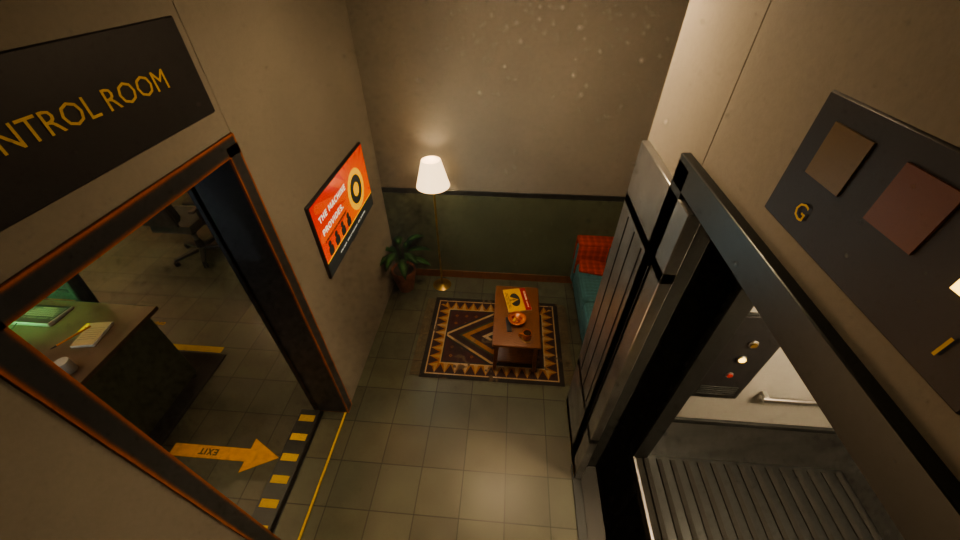
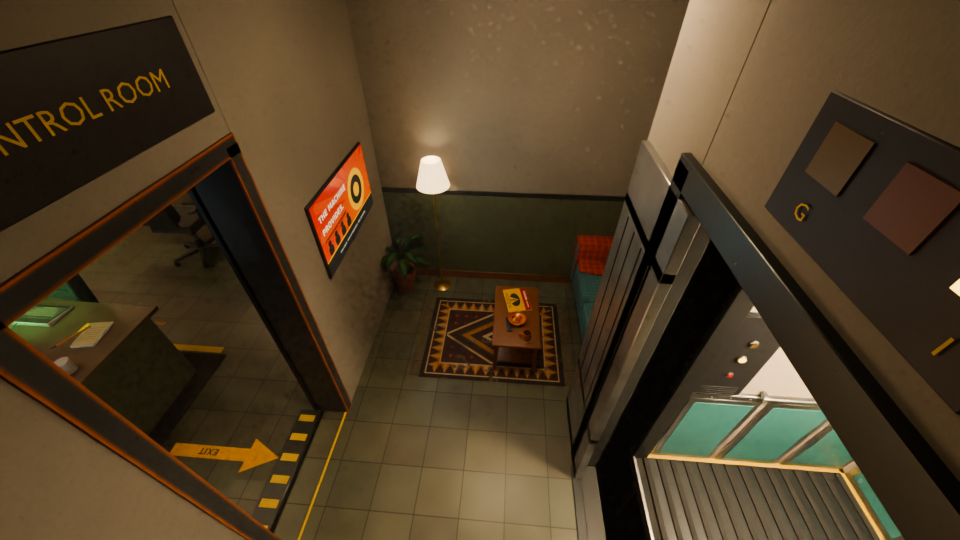
Lift car redesign: sharp teal-dado panels, big mirror, emergency phone, floor display, LED coves
- car walls cream with raised olive/teal dado panels, brushed chair rail with rivets, amber
  stripe, crown rail, glowing coves; car lamp 150 W, cabin light 16
- west wall mirror in a heavy brushed frame; emergency phone with coiled cord; certificate (frame
  no longer covers it), brass plate and framed photo on the south wall
- G | arrow | 1 floor display over the north door driven by car height
- views p15..p17, README, delivery/spec reports, shipped blend refreshed

Claude-Session: https://claude.ai/code/session_01MZn6W3mktoSNAd4EhQyGwJ

diff --git a/sections/reactor-room/production/overhaul-R1/scripts/cr_ante.py b/sections/reactor-room/production/overhaul-R1/scripts/cr_ante.py
@@ -66,7 +66,10 @@ def lamp_mats(c,ctl):
     M["LAMP_G"]=emit_mat("CR lift lamp G",(1.0,0.62,0.12),4.0); _drive(M["LAMP_G"],"4.0*max(0,1-z/0.6)",zv)
     M["LAMP_F1"]=emit_mat("CR lift lamp F1",(1.0,0.62,0.12),4.0); _drive(M["LAMP_F1"],"4.0*min(1,max(0,(z-4.8)/0.6))",zv)
     M["LAMP_MOVE"]=emit_mat("CR lift lamp moving",(1.0,0.30,0.05),3.0); _drive(M["LAMP_MOVE"],"3.0*(1 if z>0.15 and z<5.25 else 0)",zv)
-    M["CAB_LIGHT"]=emit_mat("CR lift cabin light",(1.0,0.74,0.46),9.0); _drive(M["CAB_LIGHT"],"9.0*(1-0.85*max(0,sin(T*47)*sin(T*11.3+1)-0.30)*1.6)*(1-0.7*bw)",[])
+    M["CAB_LIGHT"]=emit_mat("CR lift cabin light",(1.0,0.74,0.46),16.0); _drive(M["CAB_LIGHT"],"16.0*(1-0.85*max(0,sin(T*47)*sin(T*11.3+1)-0.30)*1.6)*(1-0.7*bw)",[])
+    M["DADO"]=pm("CR lift dado teal",(0.06,0.25,0.24),0.30,edge=(0.30,0.55,0.50),scale=2.0,bump=0.0,coat=0.4,var=(0.92,1.04))
+    M["LPHOTO"]=tex_mat("CR family photo lift",new_image("CR lift photo tex",crt.photo()),rough=0.45)
+    M["COVE"]=emit_mat("CR lift cove",(1.0,0.74,0.42),7.0,expr="7.0*(1-0.35*min(1,fk))*(1-0.5*bw)")
     M["CAM_LED"]=emit_mat("CR lift camera led",(1.0,0.05,0.03),4.0); _drive(M["CAM_LED"],"4.0*(1 if fmod(T,2.4)<0.18 else 0)",[])
     M["LAMP_SHADE"]=emit_mat("CR lamp shade glow",(1.0,0.70,0.40),2.4)
     M["COFFEE"]=pm("CR coffee",(0.03,0.016,0.008),0.12,bump=0.0,scale=2.0)
@@ -205,6 +208,42 @@ def props(c):
         base=(px+r_*ca,py+r_*sa,Z+0.26)
         A.tube((g,"PLANT"),[base,(px+(r_+0.03)*ca,py+(r_+0.03)*sa,Z+0.26+h*0.6),(px+(r_+0.06)*ca,py+(r_+0.06)*sa,Z+0.26+h)],0.0032,5)
         A.leaf((g,"PLANT"),(px+(r_+0.06)*ca,py+(r_+0.06)*sa,Z+0.26+h),(ca,sa),L,0.052,droop=0.55,n=5,t=0.0016)
+def car_dressing(K,x0,x1,y0,y1):
+    """car walls in three tones with sharp raised panels, brushed rails, an amber stripe, a big framed mirror, an emergency phone with a coiled cord, the inspection certificate and
+    capacity plate (south wall), a floor display (G | arrow | 1) over the north door and glowing LED coves.  All inner faces: west x -8.63, south y -7.08, north lintel y -5.75."""
+    g="lift_car"; xw=x0+0.07; ys=y0+0.07; yn=y1-0.10; xe=x1-0.10
+    # olive dado: raised panels with a graphite field, on both wall sides
+    for (ya,yb) in ((-7.04,-6.62),(-6.58,-6.16),(-6.12,-5.79)):
+        K.fb((g,"BRUSH"),'+x',xw,ya,yb,0.12,0.88,0.014,0.004); K.fb((g,"DADO"),'+x',xw+0.014,ya+0.035,yb-0.035,0.16,0.84,0.003,0.002)
+    for (xa,xb) in ((-8.60,-8.20),(-8.16,-7.76),(-7.72,-7.32)):
+        K.fb((g,"BRUSH"),'+y',ys,xa,xb,0.12,0.88,0.014,0.004); K.fb((g,"DADO"),'+y',ys+0.014,xa+0.035,xb-0.035,0.16,0.84,0.003,0.002)
+    K.fb((g,"BRUSH"),'+x',xw,ys,yn,0.90,0.945,0.024,0.004); K.fb((g,"BRUSH"),'+y',ys,xw,xe,0.90,0.945,0.024,0.004)                                  # chair rail
+    K.fb((g,"ORANGE"),'+x',xw,ys,yn,2.10,2.15,0.010,0.003); K.fb((g,"ORANGE"),'+y',ys,xw,xe,2.10,2.15,0.010,0.003)                                 # amber stripe
+    K.fb((g,"BRUSH"),'+x',xw,ys,yn,2.22,2.27,0.028,0.004); K.fb((g,"BRUSH"),'+y',ys,xw,xe,2.22,2.27,0.028,0.004)                                  # crown rail
+    K.fb((g,"COVE"),'+x',xw,ys,yn,2.285,2.325,0.012,0.002); K.fb((g,"COVE"),'+y',ys,xw,xe,2.285,2.325,0.012,0.002)                                 # LED coves
+    # big mirror on the west wall, above the handrail: heavy brushed frame, bevelled glass
+    my0,my1,mz0,mz1=-6.80,-5.95,1.08,2.04; fw=0.045
+    for (ya,yb,za,zb) in ((my0-fw,my1+fw,mz0-fw,mz0),(my0-fw,my1+fw,mz1,mz1+fw),(my0-fw,my0,mz0,mz1),(my1,my1+fw,mz0,mz1)): K.fb((g,"BRUSH"),'+x',xw,ya,yb,za,zb,0.024,0.004)
+    K.fb((g,"MIRROR"),'+x',xw,my0,my1,mz0,mz1,0.010,0.004)
+    # emergency phone box with handset and coiled cord, west wall south strip
+    K.fb((g,"RED"),'+x',xw,-7.03,-6.83,1.05,1.42,0.070,0.006); K.fb((g,"PAPER"),'+x',xw+0.070,-7.00,-6.86,1.34,1.39,0.003,0.001)
+    K.fb((g,"BLACK"),'+x',xw+0.070,-6.975,-6.915,1.12,1.31,0.024,0.008); K.fb((g,"BRUSH"),'+x',xw+0.070,-6.99,-6.90,1.08,1.12,0.012,0.003)
+    pts=[(xw+0.105+0.011*math.cos(t),-6.855+0.011*math.sin(t),1.10-0.0045*t/(2*math.pi)*3.2) for t in [k*0.55 for k in range(32)]]
+    K.tube((g,"BLACK"),pts,0.0024,4)
+    # inspection certificate (expired) in a thin black frame and the brass capacity plate, south wall west end
+    cx,cz,hw,hh=-8.38,1.62,0.085,0.11; yy=ys+0.0005
+    K.plane((g,"LCERT"),(cx+hw,yy,cz-hh),(cx-hw,yy,cz-hh),(cx-hw,yy,cz+hh),(cx+hw,yy,cz+hh))
+    for (xa,xb,za,zb) in ((cx-hw-0.012,cx+hw+0.012,cz-hh-0.012,cz-hh),(cx-hw-0.012,cx+hw+0.012,cz+hh,cz+hh+0.012),(cx-hw-0.012,cx-hw,cz-hh,cz+hh),(cx+hw,cx+hw+0.012,cz-hh,cz+hh)): K.fb((g,"BLACK"),'+y',ys,xa,xb,za,zb,0.006,0.002)
+    K.fb((g,"BRASS"),'+y',ys,cx-0.11,cx+0.11,1.20,1.31,0.004,0.0015)
+    px,pz,pw,ph=-8.08,1.50,0.095,0.125                                                                  # framed staff photo between the certificate and the dial
+    K.plane((g,"LPHOTO"),(px+pw,ys+0.0005,pz-ph),(px-pw,ys+0.0005,pz-ph),(px-pw,ys+0.0005,pz+ph),(px+pw,ys+0.0005,pz+ph))
+    for (xa,xb,za,zb) in ((px-pw-0.014,px+pw+0.014,pz-ph-0.014,pz-ph),(px-pw-0.014,px+pw+0.014,pz+ph,pz+ph+0.014),(px-pw-0.014,px-pw,pz-ph,pz+ph),(px+pw,px+pw+0.014,pz-ph,pz+ph)): K.fb((g,"BRASS"),'+y',ys,xa,xb,za,zb,0.008,0.002)
+    for k in range(12): K.cyly((g,"BRUSH"),xw+0.06+k*0.105,ys+0.024,ys+0.029,0.9225,0.0055,6); K.cylx((g,"BRUSH"),xw+0.024,xw+0.029,ys+0.06+k*0.105,0.9225,0.0055,6) if k<12 else None   # rivets on the chair rail
+    # floor display housing over the north door (letters + arrow are driven by the car height)
+    K.fb((g,"BLACK"),'-y',yn,-8.26,-7.64,2.05,2.255,0.026,0.006)
+    K.hull((g,"LAMP_MOVE"),[(-7.95-0.035,yn-0.027,2.09),(-7.95+0.035,yn-0.027,2.09),(-7.95,yn-0.027,2.215),(-7.95-0.035,yn-0.030,2.09),(-7.95+0.035,yn-0.030,2.09),(-7.95,yn-0.030,2.215)],0.0)
+    # rubber floor: yellow edge strips and a stencilled G | 1 in the corner
+    K.bx((g,"YELLOW"),xw,xw+0.03,ys,yn,0.096,0.100,0.0); K.bx((g,"YELLOW"),xw,xe,ys,ys+0.03,0.096,0.100,0.0)
 def car_interior(c,ctl,car,zv,_mover):
     """everything inside the car that moves with it: control panel with G / F1 lamp buttons, analogue floor dial, security camera, certificate, capacity plate, car lamp"""
     M=c.M; coll=c.coll
@@ -226,15 +265,9 @@ def car_interior(c,ctl,car,zv,_mover):
         K.cyl((g,"STEEL_L"),dx,dy,2.378,2.40,0.070,22,0.003); K.cyl((g,"BLACK"),dx,dy,2.350,2.378,0.058,22,0.003); K.cyl((g,"BLACK"),dx,dy,2.322,2.350,0.045,20,0.003); K.cyl((g,"BLACK"),dx,dy,2.302,2.322,0.028,16,0.002)
         K.cyl((g,"BLACK"),dx+0.012,dy-0.02,2.300,2.306,0.012,10); K.cyl((g,"CAM_LED"),dx+0.082,dy,2.385,2.388,0.0065,8)
         K.tube((g,"CABLE_B"),[(dx-0.07,dy,2.399),(dx-0.13,dy,2.399),(dx-0.13,dy+0.1,2.399)],0.003,6)
-        # expired inspection certificate + capacity plate on the west wall
-        x=-8.629; hw,hh=0.085,0.11; yc,zc=-6.55,1.62
-        K.plane((g,"LCERT"),(x,yc-hw,zc-hh),(x,yc+hw,zc-hh),(x,yc+hw,zc+hh),(x,yc-hw,zc+hh))
-        K.fb((g,"BLACK"),'+x',-8.63,yc-hw-0.01,yc+hw+0.01,zc-hh-0.01,zc+hh+0.01,0.003,0.0005)
-        K.fb((g,"BRASS"),'+x',-8.63,-6.64,-6.46,1.28,1.36,0.004,0.001)
-        K.fb((g,"BRUSH"),'+x',-8.63,-6.36,-5.80,1.08,2.12,0.008,0.003); K.fb((g,"MIRROR"),'+x',-8.622,-6.345,-5.815,1.095,2.105,0.003,0.0)   # mirror in a brushed frame, north half of the west wall
     objs=_mover(c,"lift_car2",fn)
     for o in objs: o.parent=car
-    for body,x,y,z,size,face,key in (("G",-7.46,-7.0575,1.40,0.036,'+y',"YELLOW"),("F1",-7.46,-7.0575,1.28,0.036,'+y',"YELLOW"),("MAX 8 PERSONS\n600 KG",-8.6265,-6.55,1.32,0.017,'+x',"BLACK")):
+    for body,x,y,z,size,face,key in (("G",-7.46,-7.0575,1.40,0.036,'+y',"YELLOW"),("F1",-7.46,-7.0575,1.28,0.036,'+y',"YELLOW"),("MAX 8 PERSONS\n600 KG",-8.38,-7.0745,1.25,0.0145,'+y',"BLACK"),("G",-8.12,-5.7765,2.155,0.085,'-y',"LAMP_G"),("1",-7.80,-5.7765,2.155,0.085,'-y',"LAMP_F1")):
         t=crk.text(coll,body,x,y,z,face,size,M[key],'CENTER',"CR lift label"); t.parent=car
     for body,x,z in (("G",-7.65,1.835),("1",-7.855,1.835)):
         t=crk.text(coll,body,x,-7.0575,z,'+y',0.026,M["YELLOW"],'CENTER',"CR lift dial label"); t.parent=car
@@ -244,5 +277,5 @@ def car_interior(c,ctl,car,zv,_mover):
     ob=_mover(c,"lift_needle",needle)
     for o in ob:
         o.parent=car; o.location=(-7.75,-7.052,1.92); drv(o,'rotation_euler',1,"1.0*(1-2*z/5.4)",var_s=False,extra=zv)
-    lo=crk.light(coll,"CR lift car lamp",(-7.95,-6.40,2.25),(1.0,0.72,0.45),60,'AREA',(0,0,0),size=(0.55,0.28),expr="60*(1-0.85*max(0,sin(T*47)*sin(T*11.3+1)-0.30)*1.6)*(1-0.7*bw)",var_s=False)
+    lo=crk.light(coll,"CR lift car lamp",(-7.95,-6.40,2.25),(1.0,0.72,0.45),150,'AREA',(0,0,0),size=(0.55,0.28),expr="150*(1-0.85*max(0,sin(T*47)*sin(T*11.3+1)-0.30)*1.6)*(1-0.7*bw)",var_s=False)
     lo.parent=car

diff --git a/sections/reactor-room/production/overhaul-R1/scripts/cr_lift.py b/sections/reactor-room/production/overhaul-R1/scripts/cr_lift.py
@@ -46,7 +46,7 @@ def build(c):
     A,M=c.A,c.M; coll=c.coll; R=c.R
     remove_old()
     M["JUG"]=pm("CR jug blue",(0.05,0.24,0.56),0.18,scale=2.0,bump=0.0,var=(0.92,1.05),coat=0.5)
-    M["CARWALL"]=pm("CR lift wall panel",(0.30,0.31,0.29),0.40,edge=(0.55,0.55,0.50),scale=2.5,bump=0.0,var=(0.90,1.04),coat=0.1)      # satin painted car walls: a closed metal box with only specular reads black
+    M["CARWALL"]=pm("CR lift wall panel",(0.50,0.46,0.37),0.40,edge=(0.55,0.55,0.50),scale=2.5,bump=0.0,var=(0.90,1.04),coat=0.1)      # satin painted car walls: a closed metal box with only specular reads black
     M["PLANT"]=pm("CR plant leaf",(0.045,0.16,0.04),0.55,scale=4.0,bump=0.05,var=(0.85,1.10))
     M["TERRA"]=pm("CR terracotta",(0.30,0.12,0.065),0.78,scale=3.0,bump=0.10,var=(0.85,1.08))
     # ---------------------------------------------------------------- control empty with the time-driven schedule
@@ -140,7 +140,6 @@ def build(c):
         g="lift_car"; x0,x1,y0,y1=-8.70,-7.20,-7.15,-5.65
         K.bx((g,"RUBBER"),x0,x1,y0,y1,0.0,0.08,0.006)
         K.bx((g,"CARWALL"),x0,x0+0.07,y0,y1,0.08,2.40,0.004); K.bx((g,"CARWALL"),x0,x1,y0,y0+0.07,0.08,2.40,0.004)                 # west + south walls
-        K.bx((g,"STEEL"),x0+0.07,x1-0.07,y0+0.07,y0+0.09,0.60,0.64,0.002); K.bx((g,"STEEL"),x0+0.07,x0+0.09,y0+0.07,y1-0.07,0.60,0.64,0.002)   # wainscot rails
         for (xa,ya) in ((x0,y1-0.10),(x1-0.10,y1-0.10),(x1-0.10,y0)): K.bx((g,"TRIM"),xa,xa+0.10,ya,ya+0.10,0.08,2.40,0.004)        # corner posts (north + east sides are the doorways)
         K.bx((g,"TRIM"),x0,x1,y1-0.10,y1,2.28,2.40,0.004); K.bx((g,"TRIM"),x1-0.10,x1,y0,y1,2.28,2.40,0.004)                          # door lintels
         K.bx((g,"CARWALL"),x0,x1,y0,y1,2.40,2.48,0.004)                                                                              # roof
@@ -152,16 +151,14 @@ def build(c):
         K.prism((g,"BRUSH"),(x0+0.25,y0+0.07+0.045,0.97),(-7.66,y0+0.07+0.045,0.97),0.0125,0.0125,14,0.0,True,0.0)
         for xx in (x0+0.27,-7.68): K.bx((g,"BRUSH"),xx-0.012,xx+0.012,y0+0.07,y0+0.07+0.045,0.955,0.985,0.003)
         # brushed kick plates, ribbed rubber floor with a steel border, threshold nosings, ceiling frame with vents / speaker
-        K.bx((g,"BRUSH"),x0+0.07,x0+0.077,y0+0.07,y1-0.10,0.09,0.58,0.002); K.bx((g,"BRUSH"),x0+0.07,x1-0.10,y0+0.07,y0+0.077,0.09,0.58,0.002)
         K.bx((g,"STEEL"),x0+0.07,x1-0.07,y0+0.07,y1-0.07,0.078,0.086,0.002)
         for k in range(15): K.bx((g,"RUBBER"),x0+0.10+k*0.0925,x0+0.10+k*0.0925+0.035,y0+0.10,y1-0.10,0.086,0.096,0.0015)
         K.bx((g,"BRUSH"),x0,x1,y1-0.02,y1,0.075,0.09,0.002); K.bx((g,"BRUSH"),x1-0.02,x1,y0,y1,0.075,0.09,0.002)
         for k in range(5): K.bx((g,"BLACK"),-8.50+k*0.05,-8.50+k*0.05+0.025,-5.95,-5.78,2.395,2.402,0.0005)                                 # ceiling vent slots
         K.lathe((g,"BRUSH"),-7.50,-6.12,[(0.052,2.40),(0.052,2.386),(0.046,2.384),(0.0,2.384)],seg=18)
         for k in range(3): K.cyl((g,"BLACK"),-7.50+0.022*math.cos(k*2.094),-6.12+0.022*math.sin(k*2.094),2.384,2.387,0.006,6)                    # speaker grille holes
-        K.bx((g,"BRUSH"),-8.29,-7.61,-6.79,-6.41,2.396,2.403,0.002)                                                                                # cabin light frame
         K.bx((g,"YELLOW"),x0+0.07,x1-0.10,y1-0.10,y1,0.08,0.09,0.0)                                                                   # sill marking
-        K.bx((g,"STEEL"),x0+0.4,x1-0.4,y0+0.08,y0+0.095,1.5,1.62,0.002)                                                               # rear panel plate
+        cr_ante.car_dressing(K,x0,x1,y0,y1)
     cobjs=_mover(c,"lift_car",mkcar)
     for o in cobjs: o.parent=car
     cr_ante.car_interior(c,ctl,car,zv,_mover)

diff --git a/sections/reactor-room/production/overhaul-R1/scripts/cr_lift_views.py b/sections/reactor-room/production/overhaul-R1/scripts/cr_lift_views.py
@@ -16,12 +16,15 @@ V={"p1_anteroom_from_lift_door":((-6.72,-6.40,6.95),(-5.6,-8.2,6.1),15,400),
    "p6_water_cooler_closeup":((-6.3,-7.2,6.8),(-5.45,-5.9,6.25),30,400),
    "p7_plant_and_lamp_corner":((-6.0,-7.6,6.7),(-5.3,-8.75,6.3),26,400),
    "p8_car_panel_and_dial_ground":((-8.25,-6.0,1.55),(-7.6,-7.08,1.35),24,1),
-   "p9_car_camera_and_certificate":((-7.45,-5.95,1.55),(-8.5,-6.9,2.0),22,1),
+   "p9_car_camera_and_certificate":((-7.5,-5.95,1.6),(-8.38,-7.08,1.55),24,1),
    "p10_car_mid_ride_dial_needle":((-8.25,-6.0,4.25),(-7.6,-7.08,4.05),24,241),
    "p11_anteroom_floor_indicator":((-5.15,-6.4,7.0),(-6.83,-6.4,7.9),30,400),
    "p12_hall_ground_door_indicator":((-7.2,-2.4,1.9),(-7.2,-5.25,2.2),24,1),
    "p13_couch_and_print":((-5.5,-7.0,6.6),(-7.3,-8.3,6.0),22,400),
-   "p14_car_mirror_and_rail":((-7.55,-6.95,1.55),(-8.62,-6.1,1.6),24,1)}
+   "p14_car_mirror_and_rail":((-7.55,-6.95,1.55),(-8.62,-6.4,1.6),24,1),
+   "p15_car_from_door_corner":((-7.30,-5.72,1.55),(-8.5,-7.0,1.2),15,1),
+   "p16_car_ceiling_and_coves":((-7.55,-6.80,1.0),(-8.2,-6.1,2.35),18,1),
+   "p17_car_door_to_panel":((-7.95,-5.70,1.6),(-7.95,-7.1,1.5),17,1)}
 ONLY=A[A.index('--only')+1].split(',') if '--only' in A else None
 for n,(l,t,ln,fr) in V.items():
     if ONLY and n not in ONLY: continue

diff --git a/sections/reactor-room/production/overhaul-R1/scripts/cr_families.py b/sections/reactor-room/production/overhaul-R1/scripts/cr_families.py
@@ -14,7 +14,7 @@ A=sys.argv[sys.argv.index("--")+1:]; SRC,DST=A[0],A[1]
 bpy.ops.wm.open_mainfile(filepath=SRC)
 C=bpy.data.collections["31 CR CONTROL ROOM REDO"]
 FAM=[  # (family, noise scale for the low-frequency variation, regexes of the old materials)
- ("S01 painted metal",2.5,r"hazard|signal red|locker|lamp shade|fridge|aircon|trim charcoal|desk edge|mug|terracotta|ceramic|lift wall"),
+ ("S01 painted metal",2.5,r"hazard|signal red|locker|lamp shade|fridge|aircon|trim charcoal|desk edge|mug|terracotta|ceramic|lift wall|lift dado"),
  ("S02 bare metal",3.0,r"galvanised|graphite|brass|ceiling grid|brushed"),
  ("S03 plaster and tile",2.0,r"wall |ceiling tile"),
  ("S05 plastic and rubber",2.5,r"black plastic|grey plastic|platinum|keycap|rubber|jug|pill"),

diff --git a/sections/reactor-room/production/overhaul-R1/README.md b/sections/reactor-room/production/overhaul-R1/README.md
@@ -241,9 +241,9 @@ The hall-side window glass is now fully clear (`CR window glass clear`: alpha 0.
 - **Lift:** solid enclosed shaft, no glass onto the reactor hall. Car doors: **north** at ground (the only opening onto the hall), **east** at the control-room level (+5.4 m). 24 s loop in scene seconds (ground 0-5 s, up 5-11 s, upper 11-17 s, down 17-23 s); car, counterweight, four ropes and four landing leaves are driven from `CR_LIFT`, frame-rate independent (`fps_independence_check.py` Passed).
 - **Anteroom:** 2.0 m wide x 3.25 m deep (interior x -6.83..-4.83, y -8.95..-5.70) plus a **south-west alcove** (x -7.70..-6.83, y -8.95..-7.52, tucked south of the shaft) that adds 0.87 m of width at the couch wall; floor +5.4 m, ceiling 8.5 m, on a steel frame with solid skirt panels. Its far door is the control room's west door. Skirting, coving, a framed print (poster atlas) and a lane of 2 m between the lift door and the control door stay clear.
 - **Anteroom dressing (AAA pass, stylised clean):** teal woven-fabric couch in the alcove, back to the west wall, facing a slim **wall-mounted TV on the control room's west wall** (broadcast image, flickers with the shared tube signal, cool glow light); walnut coffee table (generated grain texture) with magazine, remote, coffee on a coaster and a bowl of sweets; slim brass floor lamp; potted plant with 12 curved leaves; water cooler with a rounded body, tap bay, drip grille, cup dispenser and a ribbed 19 l jug ("FAMILY CO. SPRING WATER"); dark red worn Persian rug between couch and TV. The bedside table was removed (no space in the alcove). Furniture uses lathe-revolved profiles, soft bevelled cushions and tapered legs instead of stacked cylinders and boxes (`Kit.lathe`, `Kit.pillow`, `Kit.leaf` in `crk.py`).
-- **In the lift:** G and F1 buttons whose lamps light for the **active floor**, the same lamps (G | moving | F1) as floor indicators over the lift door in the anteroom and beside the ground door in the hall, a cabin light and car lamp that **flicker** (seconds-based, with the shared brownout), a dome **security camera** with a blinking red LED, an expired inspection certificate and a capacity plate, and an **analogue floor-position dial** whose needle swings with the car (G on the east side, F1 on the west side). Car detail: brushed kick plates, round handrails on brackets, ribbed rubber floor with steel border, mirror, ceiling vents and speaker grille, grooved landing-door leaves, round call buttons.
-- **Numbers (after the AAA pass, SW alcove and TV):** control-room mesh objects 192, triangles about 95.0k (lift + anteroom 70 objects, about 20k triangles of the ~35k budget), materials 44 (cap 16 was already exceeded; new generated wood grain, three fabric weaves, TV screen and mirror stay as own materials), glTF round trip 94,988 triangles, 194 objects, bounds difference under 0.001 mm. `cr_verify.py`, `verify_piping.py`, `clearance.py`, `fps_independence_check.py` Passed (90 time-driven drivers frame-rate independent). Mesh-overlap check against the hall: the base overlaps hall steel and the control-room cladding as before, nothing from the hall intrudes into the alcove or the car. Found on the way: the control room west cladding slab (x -5.0..-4.8) is the anteroom east wall, so the anteroom is effectively 1.83 m wide at that wall; the east dressing and TV are mounted on it. Not engine-measured.
+- **In the lift:** G and F1 buttons whose lamps light for the **active floor**, the same lamps (G | moving | F1) as floor indicators over the lift door in the anteroom and beside the ground door in the hall, a cabin light and car lamp that **flicker** (seconds-based, with the shared brownout), a dome **security camera** with a blinking red LED, an expired inspection certificate and a capacity plate, and an **analogue floor-position dial** whose needle swings with the car (G on the east side, F1 on the west side). **Car redesign (second AAA pass):** cream painted walls with an olive/teal raised-panel dado, brushed chair rail with rivets, amber stripe, crown rail and glowing LED coves, a big framed mirror on the west wall, red emergency phone with handset and coiled cord, certificate, brass capacity plate and a framed staff photo on the south wall, a G | arrow | 1 floor display over the north door that follows the car height, ribbed rubber floor with yellow edge strips, satin car walls, round handrails; car lamp 150 W and brighter cabin light.
+- **Numbers (after the car redesign):** control-room triangles about 97.5k, 225 objects, glTF round trip 97,547 triangles, 200 objects, 45 materials (cap 16 already exceeded); lift + anteroom about 23k triangles of the ~35k budget. `cr_verify.py` (incl. purple audit), `verify_piping.py`, `clearance.py` and `fps_independence_check.py` Passed. Not engine-measured. The control room's west cladding slab (x -5.0..-4.8) is the anteroom's real east wall, so the room is effectively 1.83 m wide there; the east dressing and TV are mounted on it.
 - **Lights:** the lift car lamp is the 7th dynamic light (no shadow); the anteroom ceiling lamp (34 W), floor lamp and TV glow are baked/static (15 baked in total).
 - **Fixed on the way:** the decal-atlas join had adopted the lift car as parent (a car-mounted certificate was the first decal object), which would have dragged every poster with the car; `cr_atlas_decals.py` now only joins unparented decals.
 - **Not done:** no collision proxies for the lift or anteroom; the car has no door leaves of its own (the landing leaves open and close); linear ride (no ease in/out); the lightmaps and the walk-through video predate all of this and are stale.
-- **Review renders:** `lift_p1..p14_*.png` (p5 is the TV wall, p13 the couch and print, p14 the car mirror and rail).
+- **Review renders:** `lift_p1..p17_*.png` (p5 TV wall, p13 couch and print, p14 mirror, p15 car from the door corner, p16 car ceiling and coves, p17 car door to panel).

diff --git a/sections/reactor-room/production/overhaul-R1/control_room_runtime_behaviour.md b/sections/reactor-room/production/overhaul-R1/control_room_runtime_behaviour.md
@@ -10,7 +10,7 @@ Generated by `cr_runtime_spec.py` from the authoring blend. Spec only: not an en
 | CR beacon +x | `energy[0]` | `40*max(0.15,(0.5-s)*2)*(0.35+0.65*max(0,sin((T*30)*0.45)))` |
 | CR beacon +y | `energy[0]` | `40*max(0.15,(0.5-s)*2)*(0.35+0.65*max(0,sin((T*30)*0.45)))` |
 | CR lift car | `location[2]` | `z` |
-| CR lift car lamp | `energy[0]` | `60*(1-0.85*max(0,sin(T*47)*sin(T*11.3+1)-0.30)*1.6)*(1-0.7*bw)` |
+| CR lift car lamp | `energy[0]` | `150*(1-0.85*max(0,sin(T*47)*sin(T*11.3+1)-0.30)*1.6)*(1-0.7*bw)` |
 | CR lift cw | `location[2]` | `-z` |
 | CR lift rope car -7.85 | `scale[2]` | `7.12-z` |
 | CR lift rope car -8.05 | `scale[2]` | `7.12-z` |
@@ -69,8 +69,9 @@ Generated by `cr_runtime_spec.py` from the authoring blend. Spec only: not an en
 | CR led green 1 | `nodes["Principled BSDF"].inputs["Emission Strength"].default_value[0]` | `4.5*max(0.03,min(1.0,(sin((T*30)*0.529+0.02)+sin((T*30)*0.155+3.93))*3.2-1.6))` |
 | CR led green 2 | `nodes["Principled BSDF"].inputs["Emission Strength"].default_value[0]` | `4.5*max(0.03,min(1.0,(sin((T*30)*1.204+4.72)+sin((T*30)*0.340+4.13))*3.2-1.6))` |
 | CR led green 3 | `nodes["Principled BSDF"].inputs["Emission Strength"].default_value[0]` | `4.5*max(0.03,min(1.0,(sin((T*30)*0.584+2.38)+sin((T*30)*0.443+1.80))*3.2-1.6))` |
-| CR lift cabin light | `nodes["Principled BSDF"].inputs["Emission Strength"].default_value[0]` | `9.0*(1-0.85*max(0,sin(T*47)*sin(T*11.3+1)-0.30)*1.6)*(1-0.7*bw)` |
+| CR lift cabin light | `nodes["Principled BSDF"].inputs["Emission Strength"].default_value[0]` | `16.0*(1-0.85*max(0,sin(T*47)*sin(T*11.3+1)-0.30)*1.6)*(1-0.7*bw)` |
 | CR lift camera led | `nodes["Principled BSDF"].inputs["Emission Strength"].default_value[0]` | `4.0*(1 if fmod(T,2.4)<0.18 else 0)` |
+| CR lift cove | `nodes["Principled BSDF"].inputs["Emission Strength"].default_value[0]` | `7.0*(1-0.35*min(1,fk))*(1-0.5*bw)` |
 | CR lift lamp F1 | `nodes["Principled BSDF"].inputs["Emission Strength"].default_value[0]` | `4.0*min(1,max(0,(z-4.8)/0.6))` |
 | CR lift lamp G | `nodes["Principled BSDF"].inputs["Emission Strength"].default_value[0]` | `4.0*max(0,1-z/0.6)` |
 | CR lift lamp moving | `nodes["Principled BSDF"].inputs["Emission Strength"].default_value[0]` | `3.0*(1 if z>0.15 and z<5.25 else 0)` |
@@ -89,7 +90,7 @@ Generated by `cr_runtime_spec.py` from the authoring blend. Spec only: not an en
 | CR tv screen | `nodes["Principled BSDF"].inputs["Emission Strength"].default_value[0]` | `1.7*(0.96+0.04*sin((T*30)*3.1))` |
 | CR beacon +x | `energy[0]` | `40*max(0.15,(0.5-s)*2)*(0.35+0.65*max(0,sin((T*30)*0.45)))` |
 | CR beacon +y | `energy[0]` | `40*max(0.15,(0.5-s)*2)*(0.35+0.65*max(0,sin((T*30)*0.45)))` |
-| CR lift car lamp | `energy[0]` | `60*(1-0.85*max(0,sin(T*47)*sin(T*11.3+1)-0.30)*1.6)*(1-0.7*bw)` |
+| CR lift car lamp | `energy[0]` | `150*(1-0.85*max(0,sin(T*47)*sin(T*11.3+1)-0.30)*1.6)*(1-0.7*bw)` |
 | CR troffer -0.6 | `energy[0]` | `32*(0.5+0.3*s)*max(0.04,1-0.9*max(0.4,1-s)*fk)*(1-0.7*bw)` |
 | CR troffer -3.0 | `energy[0]` | `32*(0.5+0.3*s)*max(0.04,1-0.9*max(0.4,1-s)*fk)*(1-0.7*bw)` |
 | CR troffer 1.2 | `energy[0]` | `32*(0.5+0.3*s)*max(0.03,1-(0.85+0.15*(1-s))*fk)*(1-0.7*bw)` |

diff --git a/sections/reactor-room/production/overhaul-R1/control_room_light_budget.md b/sections/reactor-room/production/overhaul-R1/control_room_light_budget.md
@@ -15,7 +15,7 @@ Spec generated by `cr_rt_lights.py`. Not engine-measured. Dynamic lights follow 
 | CR desk lamp | baked | no | 30.0 | [1.0, 0.68, 0.38] |
 | CR door spill | baked | no | 12.0 | [1.0, 0.58, 0.3] |
 | CR floor lamp | baked | no | 9.0 | [1.0, 0.7, 0.4] |
-| CR lift car lamp | dynamic | no | 4.41 | [1.0, 0.72, 0.45] |
+| CR lift car lamp | dynamic | no | 11.03 | [1.0, 0.72, 0.45] |
 | CR rack batten | baked | no | 30.0 | [1.0, 0.58, 0.3] |
 | CR rack glow low | baked | no | 3.0 | [0.3, 1.0, 0.35] |
 | CR rack glow mid | baked | no | 3.0 | [1.0, 0.55, 0.12] |
